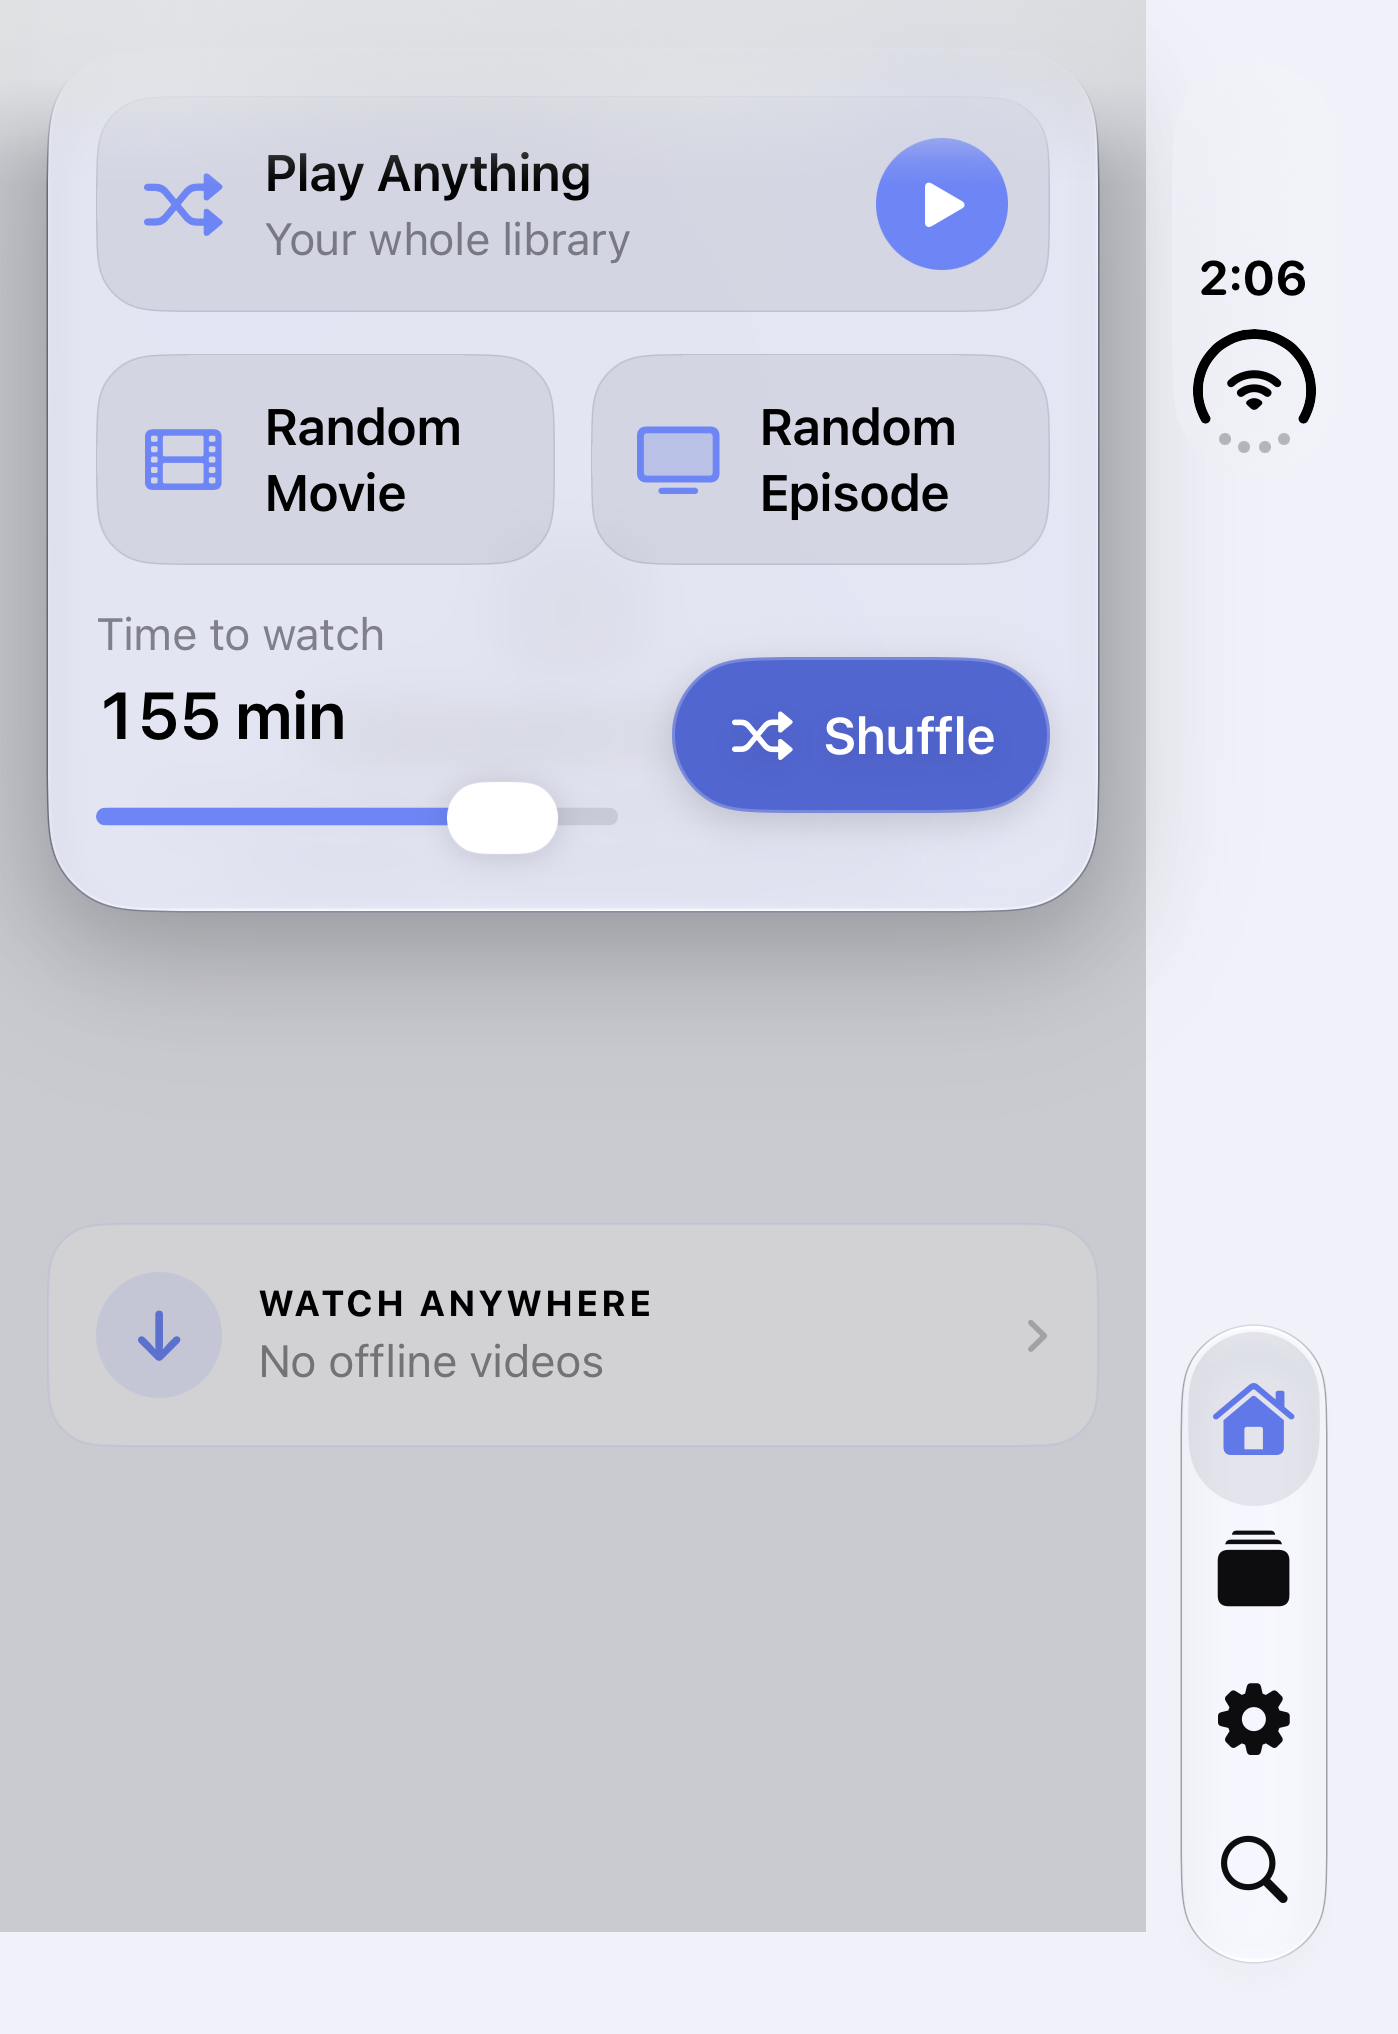
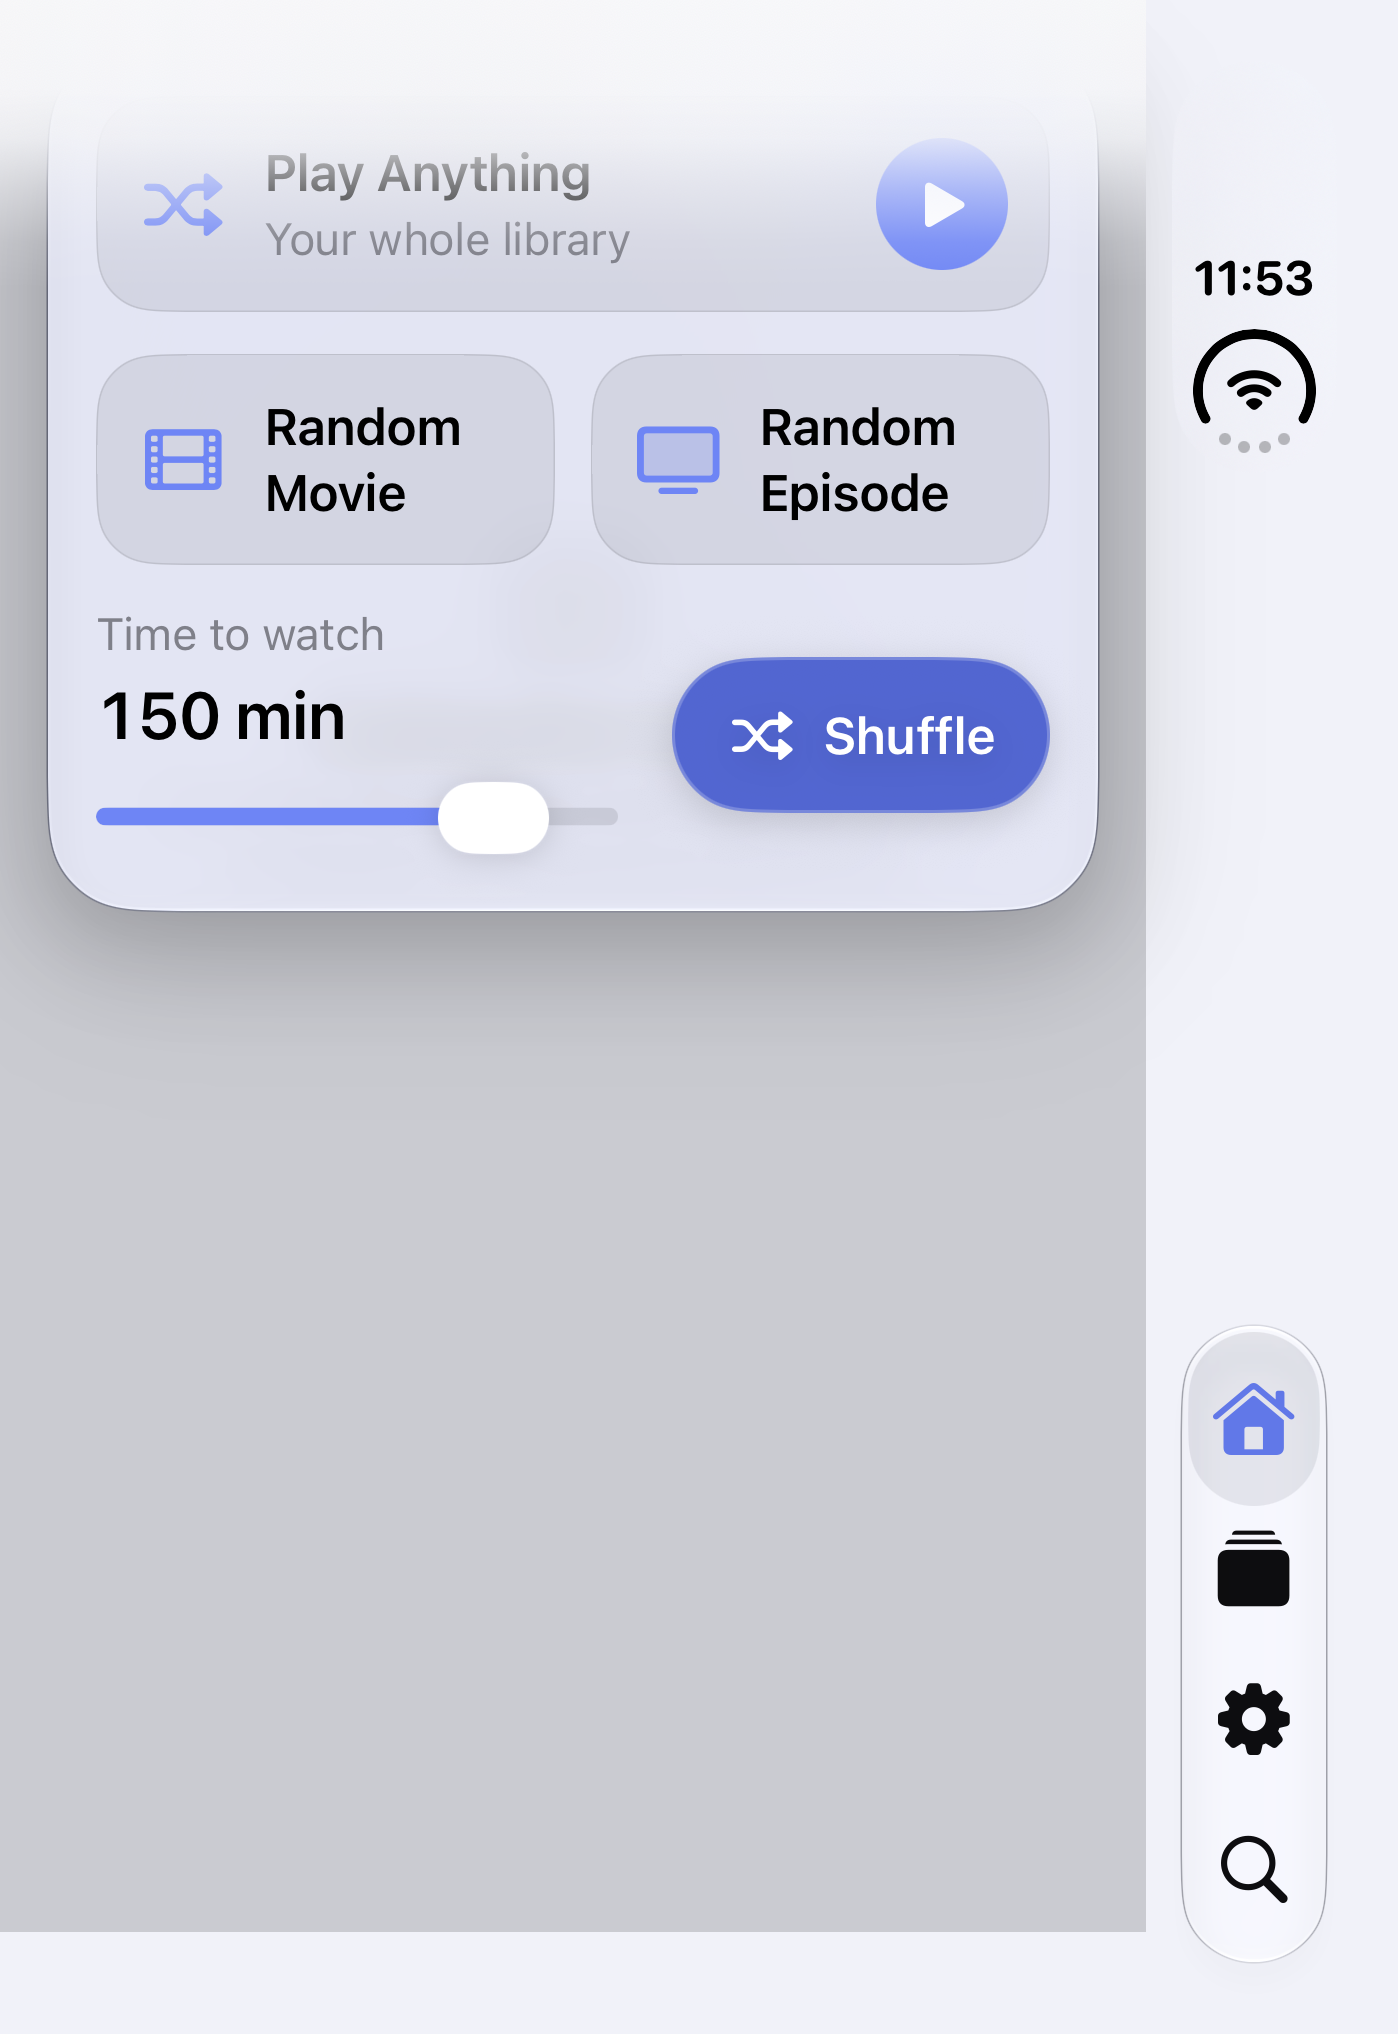
Refresh viewing controls and identify iPhone Duo simulator

diff --git a/README.md b/README.md
@@ -12,21 +12,21 @@ Cuehouse is my independent app project, built around a simple goal: make it easi
 <tr>
 <th>Home</th>
 <th>Episode details</th>
-<th>Viewing choices</th>
+<th>Viewing choices — iPhone Duo simulator</th>
 </tr>
 <tr>
 <td><img src="images/home.png" width="240" alt="Cuehouse Home in dark appearance with quick actions and a sample series"></td>
 <td><img src="images/episode-detail.png" width="240" alt="Cuehouse sample episode detail in light appearance with a prominent Play button"></td>
-<td><img src="images/viewing-controls.png" width="240" alt="Cuehouse viewing controls with Play Anything, random selection, and a time-to-watch slider"></td>
+<td><img src="images/viewing-controls.png" width="240" alt="Cuehouse viewing controls on the iPhone Duo simulator with Play Anything, random selection, and a time-to-watch slider"></td>
 </tr>
 <tr>
 <td>Quick access to downloads, Watch Later, and viewing functions.</td>
 <td>A clear title hierarchy and prominent primary action, with related actions grouped below.</td>
-<td>Choose a random movie or episode, or set the time available to watch. Shown in a larger-text test layout.</td>
+<td>Choose a random movie or episode, or set the time available to watch. Captured on the iPhone Duo simulator; its layout differs from the standard iPhone portrait view.</td>
 </tr>
 </table>
 
-Select an image to inspect the full-size screenshot. Home was recaptured on November 1, 2026 from a fresh simulator build after removal of the duplicate Downloads entry. The other captures are from October 2026 fixture runs. They illustrate interface design with sample data, not a live media library.
+Select an image to inspect the full-size screenshot. Home was recaptured on November 1, 2026 from a fresh simulator build after removal of the duplicate Downloads entry. Viewing choices was rebuilt and recaptured on the iPhone Duo simulator on November 1, 2026. Episode details is from an October 2026 fixture run. They illustrate interface design with sample data, not a live media library.
 
 ## Why I’m building it
 
